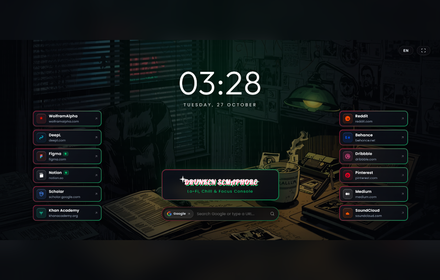
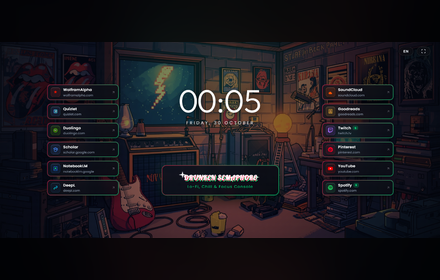
Refactor: clean up obsolete search CSS, purge all emojis from codebase, and update store visual assets

diff --git a/script.js b/script.js
@@ -38,7 +38,7 @@ function normalizeTheme(themeName) {
 
 const translations = {
     'en': {
-        fullscreen: "⛶ Fullscreen", minimize: "⛶ Minimize",
+        fullscreen: "Fullscreen", minimize: "Minimize",
         home: "Home", stopwatch: "Stopwatch", timer: "Timer", pomodoro: "Pomodoro", todo: "To-Do", alarm: "Alarm Clock", worldclock: "World Clock", birthchart: "Birth Chart",
         start: "Start", stop: "Stop", lap: "Lap", reset: "Reset", pause: "Pause / Stop", set: "Set", cancel: "Cancel", add: "+ Add", load: "Load Player",
         noAlarm: "No Alarm Set", snooze: "Snooze (5 min)", dismiss: "Dismiss", calc: "Calculate",
@@ -116,7 +116,7 @@ const translations = {
         rotateForConsole: "Rotate to portrait for console",
     },
     'tr': {
-        fullscreen: "⛶ Tam Ekran", minimize: "⛶ Küçült",
+        fullscreen: "Tam Ekran", minimize: "Küçült",
         home: "Ana Sayfa", stopwatch: "Kronometre", timer: "Sayaç", pomodoro: "Pomodoro", todo: "Yapılacaklar", alarm: "Alarm", worldclock: "Dünya Saati", birthchart: "Doğum Haritası",
         start: "Başlat", stop: "Durdur", lap: "Tur", reset: "Sıfırla", pause: "Duraklat / Bitir", set: "Kur", cancel: "İptal", add: "+ Ekle", load: "Oynatıcıyı Yükle",
         noAlarm: "Alarm Kurulmadı", snooze: "Ertele (5 dk)", dismiss: "Kapat", calc: "Hesapla",
@@ -1135,33 +1135,34 @@ class AstrologyManager {
 
     getSunSign(d, m) {
         const isTr = currentLang === 'tr';
-        if((m==1&&d<=20)||(m==12&&d>=22)) return isTr ? "Oğlak ♑" : "Capricorn ♑";
-        if((m==1&&d>=21)||(m==2&&d<=18)) return isTr ? "Kova ♒" : "Aquarius ♒";
-        if((m==2&&d>=19)||(m==3&&d<=20)) return isTr ? "Balık ♓" : "Pisces ♓";
-        if((m==3&&d>=21)||(m==4&&d<=19)) return isTr ? "Koç ♈" : "Aries ♈";
-        if((m==4&&d>=20)||(m==5&&d<=20)) return isTr ? "Boğa ♉" : "Taurus ♉";
-        if((m==5&&d>=21)||(m==6&&d<=20)) return isTr ? "İkizler ♊" : "Gemini ♊";
-        if((m==6&&d>=21)||(m==7&&d<=22)) return isTr ? "Yengeç ♋" : "Cancer ♋";
-        if((m==7&&d>=23)||(m==8&&d<=22)) return isTr ? "Aslan ♌" : "Leo ♌";
-        if((m==8&&d>=23)||(m==9&&d<=22)) return isTr ? "Başak ♍" : "Virgo ♍";
-        if((m==9&&d>=23)||(m==10&&d<=22)) return isTr ? "Terazi ♎" : "Libra ♎";
-        if((m==10&&d>=23)||(m==11&&d<=21)) return isTr ? "Akrep ♏" : "Scorpio ♏";
-        return isTr ? "Yay ♐" : "Sagittarius ♐";
+        if((m==1&&d<=20)||(m==12&&d>=22)) return isTr ? "Oğlak" : "Capricorn";
+        if((m==1&&d>=21)||(m==2&&d<=18)) return isTr ? "Kova" : "Aquarius";
+        if((m==2&&d>=19)||(m==3&&d<=20)) return isTr ? "Balık" : "Pisces";
+        if((m==3&&d>=21)||(m==4&&d<=19)) return isTr ? "Koç" : "Aries";
+        if((m==4&&d>=20)||(m==5&&d<=20)) return isTr ? "Boğa" : "Taurus";
+        if((m==5&&d>=21)||(m==6&&d<=20)) return isTr ? "İkizler" : "Gemini";
+        if((m==6&&d>=21)||(m==7&&d<=22)) return isTr ? "Yengeç" : "Cancer";
+        if((m==7&&d>=23)||(m==8&&d<=22)) return isTr ? "Aslan" : "Leo";
+        if((m==8&&d>=23)||(m==9&&d<=22)) return isTr ? "Başak" : "Virgo";
+        if((m==9&&d>=23)||(m==10&&d<=22)) return isTr ? "Terazi" : "Libra";
+        if((m==10&&d>=23)||(m==11&&d<=21)) return isTr ? "Akrep" : "Scorpio";
+        return isTr ? "Yay" : "Sagittarius";
     }
 
     getElement(sign) {
         const isTr = currentLang === 'tr';
-        if(sign.includes("♈") || sign.includes("♌") || sign.includes("♐")) return isTr ? "Ateş 🔥" : "Fire 🔥";
-        if(sign.includes("♉") || sign.includes("♍") || sign.includes("♑")) return isTr ? "Toprak 🌿" : "Earth 🌿";
-        if(sign.includes("♊") || sign.includes("♎") || sign.includes("♒")) return isTr ? "Hava 💨" : "Air 💨";
-        return isTr ? "Su 💧" : "Water 💧";
+        const s = sign.toLowerCase();
+        if(s.includes("koç") || s.includes("koc") || s.includes("aries") || s.includes("aslan") || s.includes("leo") || s.includes("yay") || s.includes("sagittarius")) return isTr ? "Ateş" : "Fire";
+        if(s.includes("boğa") || s.includes("boga") || s.includes("taurus") || s.includes("başak") || s.includes("basak") || s.includes("virgo") || s.includes("oğlak") || s.includes("oglak") || s.includes("capricorn")) return isTr ? "Toprak" : "Earth";
+        if(s.includes("ikizler") || s.includes("gemini") || s.includes("terazi") || s.includes("libra") || s.includes("kova") || s.includes("aquarius")) return isTr ? "Hava" : "Air";
+        return isTr ? "Su" : "Water";
     }
 
     getChineseZodiac(year, month, day) {
         const isTr = currentLang === 'tr';
         let cYear = (month === 1 || (month === 2 && day <= 4)) ? year - 1 : year;
-        const animalsEn = ["Rat 🐁", "Ox 🐂", "Tiger 🐅", "Rabbit 🐇", "Dragon 🐉", "Snake 🐍", "Horse 🐎", "Goat 🐐", "Monkey 🐒", "Rooster 🐓", "Dog 🐕", "Pig 🐖"];
-        const animalsTr = ["Fare 🐁", "Öküz 🐂", "Kaplan 🐅", "Tavşan 🐇", "Ejderha 🐉", "Yılan 🐍", "At 🐎", "Keçi 🐐", "Maymun 🐒", "Horoz 🐓", "Köpek 🐕", "Domuz 🐖"];
+        const animalsEn = ["Rat", "Ox", "Tiger", "Rabbit", "Dragon", "Snake", "Horse", "Goat", "Monkey", "Rooster", "Dog", "Pig"];
+        const animalsTr = ["Fare", "Öküz", "Kaplan", "Tavşan", "Ejderha", "Yılan", "At", "Keçi", "Maymun", "Horoz", "Köpek", "Domuz"];
         let index = (cYear - 4) % 12;
         if (index < 0) index += 12;
         return isTr ? animalsTr[index] : animalsEn[index];
@@ -1193,8 +1194,8 @@ class AstrologyManager {
         b = Math.round(jd * 8);
         if (b >= 8) b = 0; 
         
-        const phasesEn = ["New Moon 🌑", "Waxing Crescent 🌒", "First Quarter 🌓", "Waxing Gibbous 🌔", "Full Moon 🌕", "Waning Gibbous 🌖", "Last Quarter 🌗", "Waning Crescent 🌘"];
-        const phasesTr = ["Yeni Ay 🌑", "İlk Hilal 🌒", "İlk Dördün 🌓", "Büyüyen Ay 🌔", "Dolunay 🌕", "Küçülen Ay 🌖", "Son Dördün 🌗", "Son Hilal 🌘"];
+        const phasesEn = ["New Moon", "Waxing Crescent", "First Quarter", "Waxing Gibbous", "Full Moon", "Waning Gibbous", "Last Quarter", "Waning Crescent"];
+        const phasesTr = ["Yeni Ay", "İlk Hilal", "İlk Dördün", "Büyüyen Ay", "Dolunay", "Küçülen Ay", "Son Dördün", "Son Hilal"];
         return isTr ? phasesTr[b] : phasesEn[b];
     }
 }
@@ -2926,7 +2927,7 @@ class TodoManager {
                        style="accent-color: #00ff88; width: 16px; height: 16px; cursor: pointer;">
                 <span style="flex: 1; font-size: 13px;">${t.text}</span>
                 <button class="todo-remove-btn" data-id="${t.id}" 
-                        style="background: none; border: none; color: #ff4444; cursor: pointer; font-size: 15px;">✕</button>
+                        style="background: none; border: none; color: #ff4444; cursor: pointer; font-size: 15px;">&times;</button>
             </li>
         `).join('');
 
@@ -3136,7 +3137,7 @@ function loadEmbed() {
                     referrerpolicy="strict-origin-when-cross-origin"
                     allowfullscreen style="border-radius: 12px; display: block; border: 1px solid rgba(255,255,255,0.15);"></iframe>
                 <p style="font-size: 10px; color: rgba(255,255,255,0.4); margin-top: 6px; text-align: center;">
-                    ${currentLang === 'tr' ? 'Bazı YouTube videoları kanal sahibi tarafından gömmeye kapatılmış olabilir (Hata 150/153).' : '⚠ Some YouTube videos may have embedding disabled by the owner (Error 150/153).'}
+                    ${currentLang === 'tr' ? 'Bazı YouTube videoları kanal sahibi tarafından gömmeye kapatılmış olabilir (Hata 150/153).' : 'Note: Some YouTube videos may have embedding disabled by the owner (Error 150/153).'}
                 </p>
             `;
         } else {

diff --git a/style.css b/style.css
@@ -4186,76 +4186,9 @@ body.video-active {
     animation: spin3D 7s linear infinite !important;
 }
 
-/* 3. ORTA ALT: Şık Google Hızlı Bağlantısı (Drunken Semaphore Kutusuna Uyumlu Uzun Bar) */
-.ext-center-actions {
-    display: flex;
-    flex-direction: column;
-    align-items: center;
-    justify-content: center;
-    width: 100%;
-}
 
-.ext-center-google-link {
-    display: flex;
-    align-items: center;
-    justify-content: center;
-    gap: 12px;
-    width: 410px !important;
-    max-width: min(92vw, 440px) !important;
-    height: 48px;
-    padding: 0 20px !important;
-    border-radius: 16px !important;
-    background: rgba(14, 16, 22, 0.72) !important;
-    backdrop-filter: blur(16px) !important;
-    -webkit-backdrop-filter: blur(16px) !important;
-    border: 1px solid rgba(255, 255, 255, 0.22) !important;
-    box-shadow: 0 8px 30px rgba(0, 0, 0, 0.6), 0 0 24px rgba(255, 255, 255, 0.18), inset 0 1px 0 rgba(255, 255, 255, 0.2) !important;
-    color: #e6edf3;
-    text-decoration: none;
-    box-sizing: border-box !important;
-    transition: all 0.28s cubic-bezier(0.16, 1, 0.3, 1) !important;
-    cursor: pointer;
-}
 
-/* Arka planda zarif beyaz isiklandirma / parlak cam efekti */
-.ext-center-google-link:hover {
-    background: rgba(22, 26, 36, 0.88) !important;
-    border-color: rgba(255, 255, 255, 0.55) !important;
-    transform: translateY(-2px) scale(1.01) !important;
-    box-shadow: 0 12px 35px rgba(0, 0, 0, 0.75), 0 0 35px rgba(255, 255, 255, 0.38), 0 0 12px rgba(255, 255, 255, 0.25), inset 0 1px 0 rgba(255, 255, 255, 0.35) !important;
-    color: #ffffff;
-}
-
-.ext-google-icon {
-    display: block;
-    width: 18px;
-    height: 18px;
-    flex-shrink: 0;
-}
-
-.ext-google-btn-text {
-    font-size: 13.5px;
-    font-weight: 500;
-    letter-spacing: 0.6px;
-    color: #f1f5f9;
-}
-
-.ext-center-google-link .ext-google-btn-arrow {
-    color: rgba(255, 255, 255, 0.45);
-    transition: transform 0.25s ease, color 0.25s ease;
-}
-
-.ext-center-google-link:hover .ext-google-btn-arrow {
-    color: #ffffff;
-    transform: translate(2px, -2px);
-}
-
-.ext-btn-google:hover .ext-google-arrow {
-    color: #ffffff;
-    transform: translate(2px, -2px);
-}
-
-/* Mobil Görünüm: Soldan 3 link + Sağdan 3 link = Toplam 6 link alt alta sıralanır */
+/* Mobil Gorunum: Sol kanat linkleri dikey siralanir */
 .extension-screen {
     scrollbar-width: none !important;
     -ms-overflow-style: none !important;
@@ -4373,14 +4306,7 @@ body.video-active {
         transform-style: flat !important;
     }
 
-    .ext-center-google-link {
-        width: 100% !important;
-        max-width: 340px !important;
-        height: 44px !important;
-        padding: 0 16px !important;
-        border-radius: 14px !important;
-        font-size: 13px !important;
-    }
+
 
     .ext-header {
         padding: 16px 20px !important;

diff --git a/index.html b/index.html
@@ -547,7 +547,7 @@
         <main class="main-content">
 
             <!-- FULLSCREEN KUTUCUĞU -->
-            <button id="btn-fullscreen" class="glass-btn" style="position: absolute; top: 28px; right: 15px; z-index: 100;"><span class="txt-fullscreen">⛶ Fullscreen</span></button>
+            <button id="btn-fullscreen" class="glass-btn" style="position: absolute; top: 28px; right: 15px; z-index: 100;"><span class="txt-fullscreen">Fullscreen</span></button>
 
             <!-- ORTA KUTU (FEATURES KUTUSU) -->
              <!-- HOME KUTUCUĞU -->
